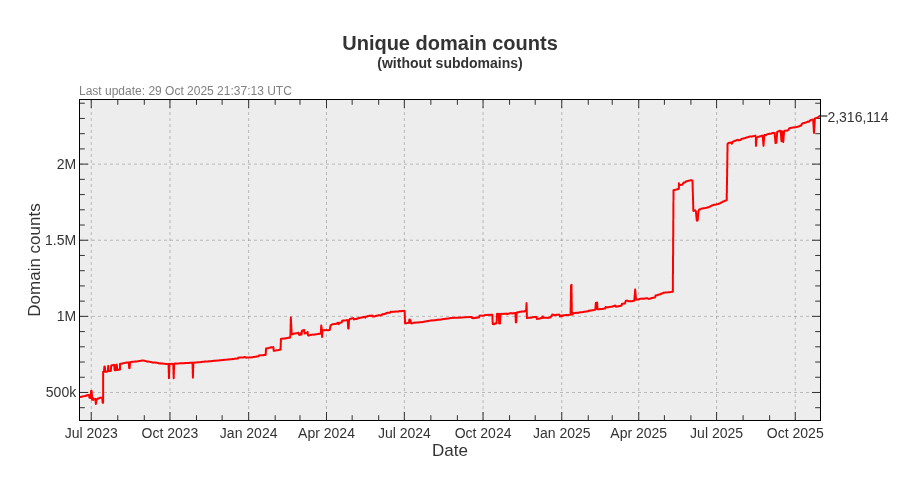
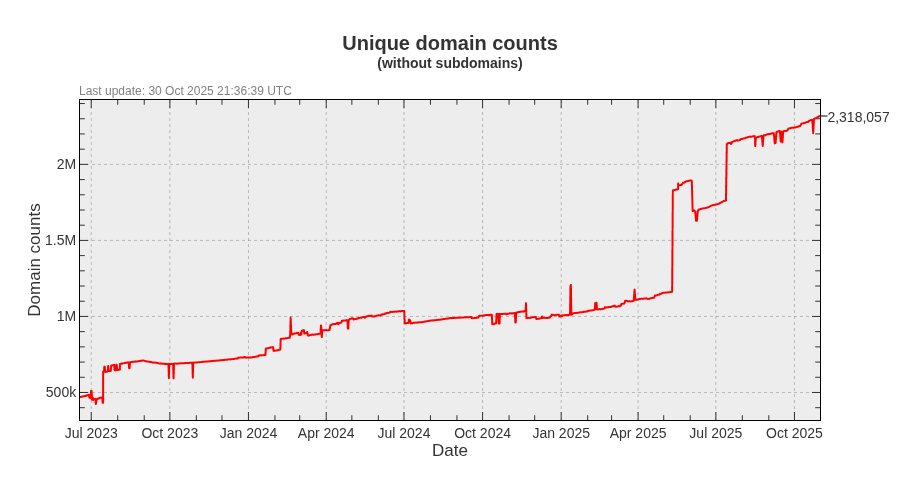
Update pages

diff --git a/README.md b/README.md
@@ -3,22 +3,22 @@ A blocklist file for blocking ads, trackers and malware domains.
 
[1 lines of base64/hex data omitted]
 
-- Unique domains: 3,014,932
-- Without subdomains: 2,316,114
-- Last update: 29 Oct 2025 21:37:13 UTC
-- Version: 2025.10.29.01
+- Unique domains: 3,016,876
+- Without subdomains: 2,318,057
+- Last update: 30 Oct 2025 21:36:39 UTC
+- Version: 2025.10.30.01
 
 
 ### Downloads:
 
 | Format             | Domain count      | Download Link |
 |:------------------ | -----------------:|:-------------:|
-| *Adblock Plus*     | 2,316,114 | [Download](https://dl.cenk.app/bad-hosts/bad-hosts-abp) |
-| *Wildcard domains* | 2,316,114 | [Download](https://dl.cenk.app/bad-hosts/bad-hosts-wildcard) |
-| *dnsmasq*          | 2,316,114 | [Download](https://dl.cenk.app/bad-hosts/bad-hosts-dnsmasq) |
-| *hosts*            | 3,014,932 | [Download](https://dl.cenk.app/bad-hosts/hosts) |
-| *hosts (ipv6)*     | 3,014,932 | [Download](https://dl.cenk.app/bad-hosts/hosts-ipv6) |
-| *Plain domains*    | 3,014,932 | [Download](https://dl.cenk.app/bad-hosts/bad-hosts-domains) |
+| *Adblock Plus*     | 2,318,057 | [Download](https://dl.cenk.app/bad-hosts/bad-hosts-abp) |
+| *Wildcard domains* | 2,318,057 | [Download](https://dl.cenk.app/bad-hosts/bad-hosts-wildcard) |
+| *dnsmasq*          | 2,318,057 | [Download](https://dl.cenk.app/bad-hosts/bad-hosts-dnsmasq) |
+| *hosts*            | 3,016,876 | [Download](https://dl.cenk.app/bad-hosts/hosts) |
+| *hosts (ipv6)*     | 3,016,876 | [Download](https://dl.cenk.app/bad-hosts/hosts-ipv6) |
+| *Plain domains*    | 3,016,876 | [Download](https://dl.cenk.app/bad-hosts/bad-hosts-domains) |
 
 ### Domain count history
 #### With subdomains
